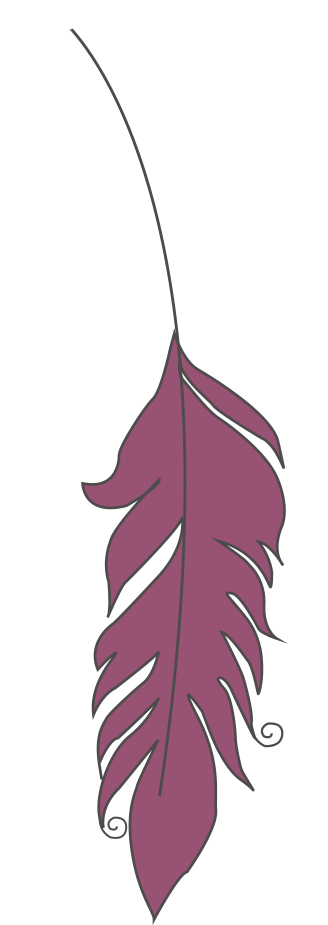
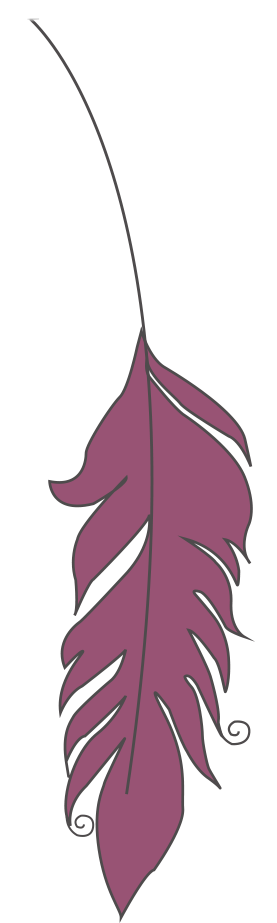
Estilos y plumas

Changed region(s): [[0.1444, 0.0303, 0.9242, 1.0], [0.1155, 0.0, 0.1444, 0.0303]]

diff --git a/public/css/mainEncuesta.css b/public/css/mainEncuesta.css
@@ -123,9 +123,8 @@ input, select, textarea {
 		}
 
 	strong, b {
-		color: #ffffff;
-		font-weight: 300;
-		background: #e86e48;
+		color: #000000;
+		font-weight: 700;
 		padding: 5%;
 	}
 
@@ -2216,7 +2215,7 @@ input, select, textarea {
 		font-size: 15px;
 		font-weight: 300;
 		margin: 0 0 1em 0;
-		background: #e86e48;
+		background: transparent;
 		padding: 5%;
 	}
 
@@ -4009,3 +4008,21 @@ input, select, textarea {
 					
 
 	}
+	
+	/*CUSTOM*/
+	
+	.plumas
+{
+    position:relative;   
+    margin-left:5px;
+    -webkit-transition: all 1s ease;
+    transition: all 1s ease;
+    -webkit-transform-style: preserve-3d;
+    transform-style: preserve-3d;
+}
+	
+	
+.plumas:hover {
+		transform: rotateY( 180deg );
+    -webkit-transform: rotateY(180deg);
+}

diff --git a/public/css/bootstrap.css b/public/css/bootstrap.css
@@ -1804,7 +1804,7 @@ pre code {
     width: 25%;
   }
   .col-sm-2 {
-    width: 16.66666667%;
+    width: 20%;
   }
   .col-sm-1 {
     width: 8.33333333%;
@@ -1921,7 +1921,7 @@ pre code {
     margin-left: 16.66666667%;
   }
   .col-sm-offset-1 {
-    margin-left: 2.33333333%;
+    margin-left: 0;
   }
   .col-sm-offset-0 {
     margin-left: 0;

diff --git a/resources/views/MAutonomia/Encuesta/formularioEncuesta.blade.php b/resources/views/MAutonomia/Encuesta/formularioEncuesta.blade.php
@@ -12,15 +12,15 @@
 					<div class="row">
 								<div class="col-12-medium">
                         <fieldset name="RespuestasUsuario">
-                            <div style="font-weight:700; color: #8d562f;" name ="id_pregunta" value = "{{ $PreguntasFormulario->id }}"> ¿ {{ $PreguntasFormulario->Enunciado }} ?
+                            <div style="font-weight: 700; color: #ffffff; background: #e86e48; padding: 5%; border-radius: 50px;" name ="id_pregunta" value = "{{ $PreguntasFormulario->id }}"> ¿ {{ $PreguntasFormulario->Enunciado }} ?
 							</div>
 							@foreach($PreguntasFormulario->Respuestas as $respuestas)
                                 <div class="col-sm-2 col-sm-offset-1" >
 
                                         <label><input type="radio" onclick="guardarRespuestaUsuario(this,{{$respuestas->id}})" id="Respuesta_id" name="Respuesta_id[{{$loop->parent->index}}]" data-toggle="modal" data-target="#modalExplicacionRespuesta{{$respuestas->id}}">
                                             <b>{{$respuestas->Descripcion}}</b>
+											<img class="plumas" style="width: 40%; display:block; margin:auto;" src="{{ asset('images/morada.png') }}"></img>
                                         </label>
-																	<img class="media-object" style="width: 40%; display:block; margin:auto;" src="{{ asset('images/morada.png') }}"></img>
                                     <!-- Modal confirmación elimminar respuesta-->
                                     @if($respuestas->Puntaje >= 0)
                                         <div id="modalExplicacionRespuesta{{$respuestas->id}}" name="modalExplicacionRespuesta" class="modal fade" role="dialog">
